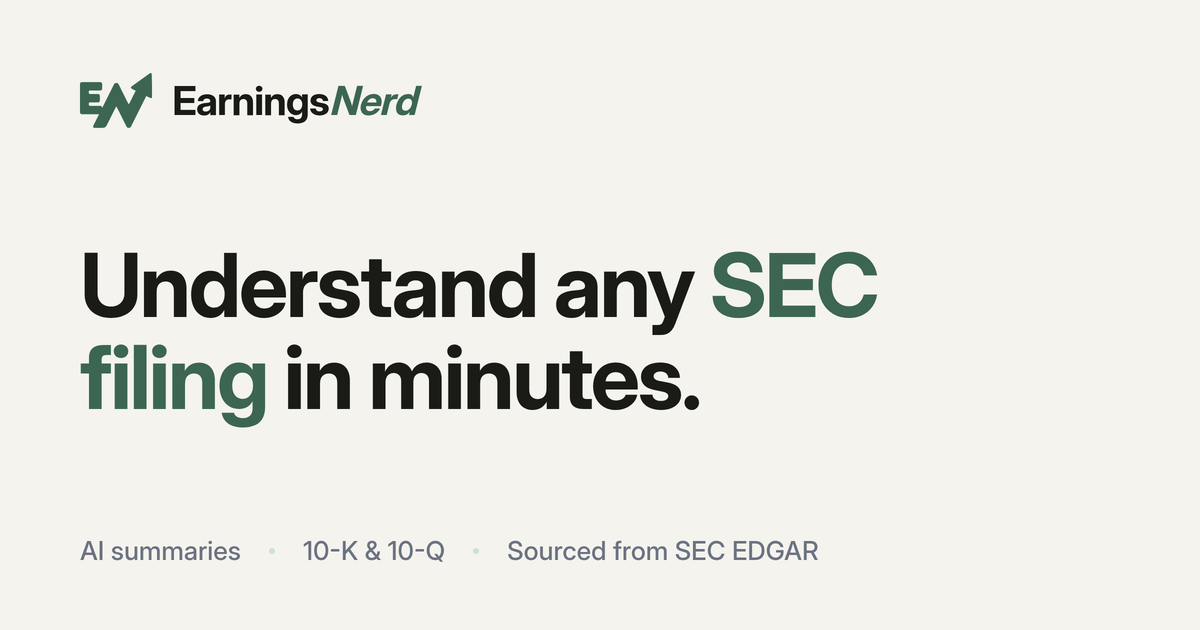
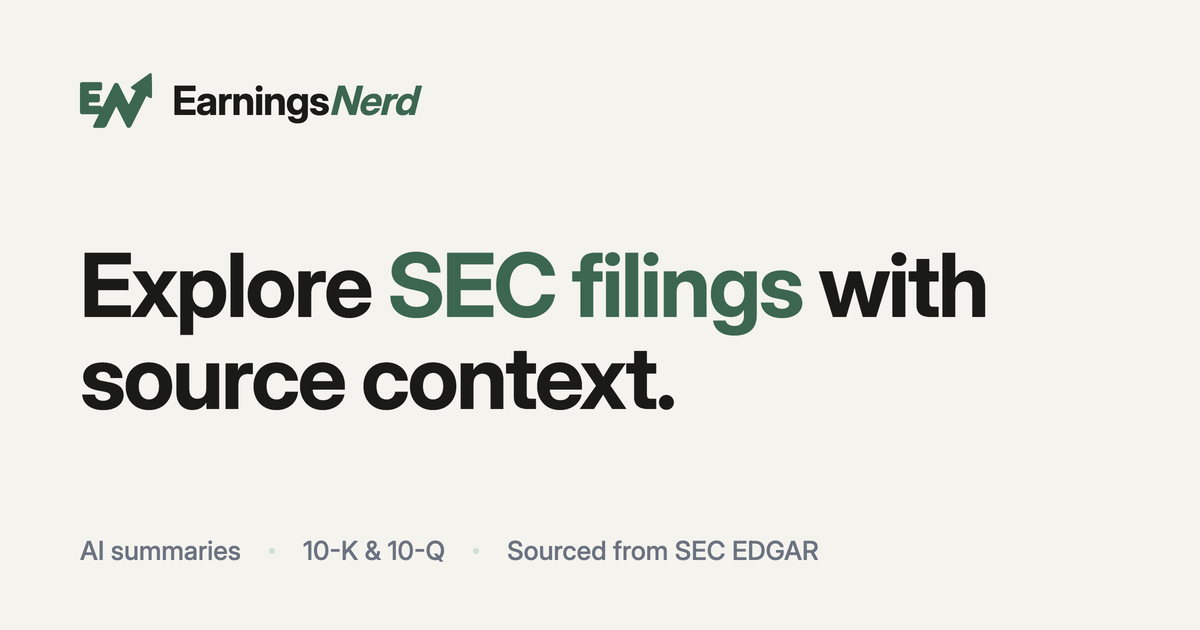
fix(frontend): bound social card claim

Changed region(s): [[0.0617, 0.3921, 0.8325, 0.6937], [0.1542, 0.1508, 0.2775, 0.181], [0.3083, 0.1508, 0.3392, 0.181]]

diff --git a/frontend/app/layout.tsx b/frontend/app/layout.tsx
@@ -51,8 +51,8 @@ export const metadata: Metadata = {
     type: 'website',
     images: [
       {
-        // ?v=2 cache-busts scrapers that cached the pre-rebrand card by URL.
-        url: '/og-image.png?v=2',
+        // Bump when the committed card changes so social scrapers fetch the current pixels.
+        url: '/og-image.png?v=3',
         width: 1200,
         height: 630,
         alt: 'EarningsNerd - AI-assisted SEC filing summaries with source context',
@@ -63,7 +63,7 @@ export const metadata: Metadata = {
     card: 'summary_large_image',
     title: 'EarningsNerd | AI-powered SEC filing analysis',
     description: 'Explore SEC filings with AI-assisted summaries and source context from SEC EDGAR.',
-    images: ['/og-image.png?v=2'],
+    images: ['/og-image.png?v=3'],
   },
   icons: {
     // favicon.ico carries 16/32/48; the self-backgrounded appicon SVG scales

diff --git a/frontend/app/page.tsx b/frontend/app/page.tsx
@@ -41,7 +41,7 @@ export const metadata: Metadata = {
     images: [
       {
         // Same card as the root layout (a nested `openGraph` replaces the layout's, not merges).
-        url: '/og-image.png?v=2',
+        url: '/og-image.png?v=3',
         width: 1200,
         height: 630,
         alt: 'EarningsNerd - SEC filing summaries with source context',
@@ -52,7 +52,7 @@ export const metadata: Metadata = {
     card: 'summary_large_image',
     title: pageTitleFor(DEFAULT_HEADLINE),
     description: DESCRIPTION,
-    images: ['/og-image.png?v=2'],
+    images: ['/og-image.png?v=3'],
   },
 }
 

diff --git a/frontend/scripts/brand/og-template.html b/frontend/scripts/brand/og-template.html
@@ -50,7 +50,7 @@
     </svg>
     <div class="wordmark">Earnings<em>Nerd</em></div>
   </div>
-  <div class="headline">Understand any <span class="accent">SEC filing</span> in minutes.</div>
+  <div class="headline">Explore <span class="accent">SEC filings</span> with source context.</div>
   <div class="meta">
     <span>AI summaries</span><span class="dot"></span>
     <span>10-K &amp; 10-Q</span><span class="dot"></span>
